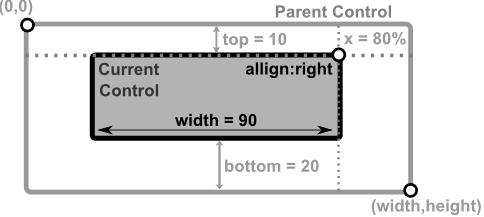
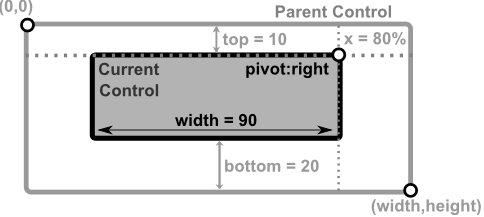
Partial documentation for anchors

Changed region(s): [[0.4959, 0.2765, 0.6818, 0.3594]]

diff --git a/docs/chapter-3/layout/anchors.md b/docs/chapter-3/layout/anchors.md
@@ -7,9 +7,9 @@ Anchors (`left`, `right`, `top` and `bottom`) represent the distance between the
 ## Corner anchors
 
 
-Corner anchors are cases when the following combinations of anchors are used toghether (`left` and `top`), (`left` and `bottom`), (`right` and `top`) and (`right` and `bottom`).
-When this combinations are used, `x` and `y` keys can not be used. Using them will reject the layout.
-If **width** or **height** are not specified , they will be defaulted to `1 character` (unless there is a minimum width or minumum height specified for that controls - in which case that limit will be applied).
+Corner anchors are cases when the following combinations of anchors are used together (`left` and `top`), (`left` and `bottom`), (`right` and `top`) and (`right` and `bottom`).
+When these combinations are used, `x` and `y` keys cannot be used. Using them will reject the layout.
+If **width** or **height** are not specified, they will be defaulted to `1 character` (unless there is a minimum width or minimum height specified for those controls - in which case that limit will be applied).
 
 The combination of anchors also decides how (top,left) and (right,bottom) corners of a control are computed, as follows:
 
@@ -22,48 +22,142 @@ The combination of anchors also decides how (top,left) and (right,bottom) corner
 
 where:
 * `parentWidth` is the width of the parent control
-* `parentHeight` the height of the parent control
+* `parentHeight` is the height of the parent control
 
-**Examples**
+### Visual Representation
 
-| Layout                     | Result                                 |
-| -------------------------- | -------------------------------------- |
-| **t:10,r:20,w:50,h:20**    | <img src="img/layout_anchor_tr.png" /> |
-| **b:10,r:20,w:33%,h:10**   | <img src="img/layout_anchor_br.png" /> |
-| **b:10%,l:50%,w:25%,h:10** | <img src="img/layout_anchor_bl.png" /> |
+| Layout Description                                                                                                                                                                                   | Visual representation                            |
+| ---------------------------------------------------------------------------------------------------------------------------------------------------------------------------------------------------- | ------------------------------------------------ |
+| A control anchored to **top** and **right** margins with `top` = **10**, `right` = **20**, `width` = **50** characters and `height` = **20** characters                                              | <img src="img/layout_anchor_tr.png" width=800 /> |
+| A control anchored to **bottom** and **right** margins with `bottom` = **10**, `right` = **20**, `width` = **33%** of parent width and `height` = **10** characters                                  | <img src="img/layout_anchor_br.png" width=800 /> |
+| A control anchored to **bottom** and **left** margins with `bottom` = **10%** of parent height, `left` = **50%** of parent width, `width` = **25%** of parent width and `height` = **10** characters | <img src="img/layout_anchor_bl.png" width=800 /> |
+
+### Examples
+
+1. Anchor control to top and right with fixed dimensions
+    ```rs
+    // using LayoutBuilder
+    LayoutBuilder::new().top(10)
+                        .right(20)
+                        .width(50)
+                        .height(20)
+                        .build()
+    // or using macro:
+    layout!("top:10,right:20,width:50,height:20")
+    // or using macro with aliases:
+    layout!("t:10,r:20,w:50,h:20")
+    ```
+
+2. Anchor control to bottom and right with percentage width
+    ```rs
+    // using LayoutBuilder
+    LayoutBuilder::new().bottom(10)
+                        .right(20)
+                        .width(0.33)
+                        .height(10)
+                        .build()
+    // or using macro:
+    layout!("bottom:10,right:20,width:33%,height:10")
+    // or using macro with aliases:
+    layout!("b:10,r:20,w:33%,h:10")
+    ```
 
 
 ## Using Left-Right anchors
 
-When `Left` and `right` anchors are used together, there are several restrictions. First of all, `width`  and `x` parameters can not be specified. Width is deduced as the difference between parents width and the sum of left and right anchors. Left anchor will also be considered as the "x" coordonate.
-However, `height` parameter should be specified (if not specified it will be defaulted to `1 character` (unless a minimum height is specified for that controls - in which case that limit will be applied).
-`align` paramter can also be specified , but only with the following values: `top`, `center` or `bottom`. If not specified it will be defaulted to `center`.
+When `left` and `right` anchors are used together, there are several restrictions. First of all, `width` and `x` parameters cannot be specified. Width is deduced as the difference between parent's width and the sum of left and right anchors. Left anchor will also be considered as the "x" coordinate.
+However, `height` parameter should be specified (if not specified it will be defaulted to `1 character` (unless a minimum height is specified for those controls - in which case that limit will be applied)).
+`align` parameter can also be specified, but only with the following values: `top`, `center` or `bottom`. If not specified it will be defaulted to `center`.
 
-**Examples**
+### Visual Representation
 
-| Layout                         | Result                                   |
-| ------------------------------ | ---------------------------------------- |
-| **l:10,r:20,h:20,y:80%,p:b**   | <img src="img/layout_anchor_lr_1.png" /> |
-| **l:10,r:20,h:100%,y:50%,p:c** | <img src="img/layout_anchor_lr_2.png" /> |
-| **l:10,r:20,h:50%,y:0,p:t**    | <img src="img/layout_anchor_lr_3.png" /> |
+| Layout Description                                                                                                                                         | Visual representation                              |
+| ---------------------------------------------------------------------------------------------------------------------------------------------------------- | -------------------------------------------------- |
+| A control with **left** and **right** anchors, positioned at `y` = **80%** of parent height with `height` = **20** characters and **bottom** pivot         | <img src="img/layout_anchor_lr_1.png" width=800 /> |
+| A control with **left** and **right** anchors, positioned at `y` = **50%** of parent height with `height` = **100%** of parent height and **center** pivot | <img src="img/layout_anchor_lr_2.png" width=800 /> |
+| A control with **left** and **right** anchors, positioned at `y` = **0** with `height` = **50%** of parent height and **top** pivot                        | <img src="img/layout_anchor_lr_3.png" width=800 /> |
+
+### Examples
+
+1. Left-Right anchors with bottom pivot positioning
+    ```rs
+    // using LayoutBuilder
+    LayoutBuilder::new().left(10)
+                        .right(20)
+                        .height(20)
+                        .y(0.8)
+                        .pivot(Pivot::Bottom)
+                        .build()
+    // or using macro:
+    layout!("left:10,right:20,height:20,y:80%,pivot:bottom")
+    // or using macro with aliases:
+    layout!("l:10,r:20,h:20,y:80%,p:b")
+    ```
+
+2. Left-Right anchors with center pivot and full height
+    ```rs
+    // using LayoutBuilder
+    LayoutBuilder::new().left(10)
+                        .right(20)
+                        .height(1.0)
+                        .y(0.5)
+                        .pivot(Pivot::Center)
+                        .build()
+    // or using macro:
+    layout!("left:10,right:20,height:100%,y:50%,pivot:center")
+    // or using macro with aliases:
+    layout!("l:10,r:20,h:100%,y:50%,p:c")
+    ```
 
 ## Using Top-Bottom anchors
 
-When `top` and `bottom` anchors are used together, there are several restrictions. First of all, `height` and `y` parameters can not be specified. Height is deduced as the difference between parents height and the sum of top and bottom anchors. Top anchor will also be considered as the "y" coordonate.
-However, `width` parameter should be specified (if not specified it will be defaulted to `1 character` (unless a minimum width is specified for that controls - in which case that limit will be applied).
-`align` paramter can also be specified , but only with the following values: `left`, `center` or `right`. If not specified it will be defaulted to `center`.
+When `top` and `bottom` anchors are used together, there are several restrictions. First of all, `height` and `y` parameters cannot be specified. Height is deduced as the difference between parent's height and the sum of top and bottom anchors. Top anchor will also be considered as the "y" coordinate.
+However, `width` parameter should be specified (if not specified it will be defaulted to `1 character` (unless a minimum width is specified for those controls - in which case that limit will be applied)).
+`align` parameter can also be specified, but only with the following values: `left`, `center` or `right`. If not specified it will be defaulted to `center`.
 
-**Examples**
+### Visual Representation
 
-| Layout                         | Result                                   |
-| ------------------------------ | ---------------------------------------- |
-| **t:10,b:20,w:90,x:80%,p:r**   | <img src="img/layout_anchor_tb_1.png" /> |
-| **t:10,b:20,w:100%,x:50%,p:c** | <img src="img/layout_anchor_tb_2.png" /> |
-| **t:10,b:20,w:50%,x:0,p:l**    | <img src="img/layout_anchor_tb_3.png" /> |
+| Layout Description                                                                                                                                      | Visual representation                              |
+| ------------------------------------------------------------------------------------------------------------------------------------------------------- | -------------------------------------------------- |
+| A control with **top** and **bottom** anchors, positioned at `x` = **80%** of parent width with `width` = **90** characters and **right** pivot         | <img src="img/layout_anchor_tb_1.png" width=800 /> |
+| A control with **top** and **bottom** anchors, positioned at `x` = **50%** of parent width with `width` = **100%** of parent width and **center** pivot | <img src="img/layout_anchor_tb_2.png" width=800 /> |
+| A control with **top** and **bottom** anchors, positioned at `x` = **0** with `width` = **50%** of parent width and **left** pivot                      | <img src="img/layout_anchor_tb_3.png" width=800 /> |
+
+### Examples
+
+1. Top-Bottom anchors with right pivot positioning
+    ```rs
+    // using LayoutBuilder
+    LayoutBuilder::new().top(10)
+                        .bottom(20)
+                        .width(90)
+                        .x(0.8)
+                        .pivot(Pivot::Right)
+                        .build()
+    // or using macro:
+    layout!("top:10,bottom:20,width:90,x:80%,pivot:right")
+    // or using macro with aliases:
+    layout!("t:10,b:20,w:90,x:80%,p:r")
+    ```
+
+2. Top-Bottom anchors with center pivot and full width
+    ```rs
+    // using LayoutBuilder
+    LayoutBuilder::new().top(10)
+                        .bottom(20)
+                        .width(1.0)
+                        .x(0.5)
+                        .pivot(Pivot::Center)
+                        .build()
+    // or using macro:
+    layout!("top:10,bottom:20,width:100%,x:50%,pivot:center")
+    // or using macro with aliases:
+    layout!("t:10,b:20,w:100%,x:50%,p:c")
+    ```
 
 ## 3-margin anchors
 
-When using 3 of the 4 anchors, the following keys can not be used: `x`, `y`, `align` and `dock`. Using them will reject the layout.
+When using 3 of the 4 anchors, the following keys cannot be used: `x`, `y`, `align` and `dock`. Using them will reject the layout.
 The following table reflects these dependencies:
 
 
@@ -73,9 +167,9 @@ The following table reflects these dependencies:
 | `top` and `left` and `bottom`<br>or<br>`top` and `right` and `bottom` | `width` optional (see remarks)<br><br>`height` = parentHeight - (top+bottom) |
 
 **Remarks** 
-* if `height` or `width` are not present and can not be computed as a difference between two margins, they are defaulted to value 1. If limits are present (min Width or min Height) those limits are applied. This is usually usefull for controls that have a fixed width or height (e.g. a button, a combobox).
+* if `height` or `width` are not present and cannot be computed as a difference between two margins, they are defaulted to value 1. If limits are present (min Width or min Height) those limits are applied. This is usually useful for controls that have a fixed width or height (e.g. a button, a combobox).
 
-The position of the control is also computed based on the combination of the 3 anchors selectd, as shown in the next table:
+The position of the control is also computed based on the combination of the 3 anchors selected, as shown in the next table:
 
 | Combination                     | Top-Left corner                    | Bottom-Right corner                      |
 | ------------------------------- | ---------------------------------- | ---------------------------------------- |
@@ -86,25 +180,70 @@ The position of the control is also computed based on the combination of the 3 a
 
 where:
 * `parentWidth` is the width of the parent control
-* `parentHeight` the height of the parent control
+* `parentHeight` is the height of the parent control
 
-**Examples**
+### Visual Representation
 
+| Layout Description                                                                                                                                                                | Visual representation                             |
+| --------------------------------------------------------------------------------------------------------------------------------------------------------------------------------- | ------------------------------------------------- |
+| A control anchored to **left**, **top**, and **right** margins with `left` = **10**, `top` = **8**, `right` = **20**, and `height` = **33%** of parent height                     | <img src="img/layout_anchor_ltr.png" width=800 /> |
+| A control anchored to **left**, **bottom**, and **right** margins with `left` = **20**, `bottom` = **5**, `right` = **10**, and `height` = **33%** of parent height               | <img src="img/layout_anchor_lbr.png" width=800 /> |
+| A control anchored to **top**, **left**, and **bottom** margins with `top` = **8**, `left` = **10**, `bottom` = **15**, and `width` = **80%** of parent width                     | <img src="img/layout_anchor_tlb.png" width=800 /> |
+| A control anchored to **top**, **right**, and **bottom** margins with `top` = **8**, `right` = **30**, `bottom` = **20%** of parent height, and `width` = **50%** of parent width | <img src="img/layout_anchor_trb.png" width=800 /> |
 
-| Layout                    | Result                                  |
-| ------------------------- | --------------------------------------- |
-| **l:10,t:8,r:20,h:33%**   | <img src="img/layout_anchor_ltr.png" /> |
-| **l:20,b:5,r:10,h:33%**   | <img src="img/layout_anchor_lbr.png" /> |
-| **l:10,t:8,b:15,w:80%**   | <img src="img/layout_anchor_tlb.png" /> |
-| **r:30,t:8,b:20%,w:50%%** | <img src="img/layout_anchor_trb.png" /> |
+### Examples
+
+1. Three-margin anchors with left, top, and right
+    ```rs
+    // using LayoutBuilder
+    LayoutBuilder::new().left(10)
+                        .top(8)
+                        .right(20)
+                        .height(0.33)
+                        .build()
+    // or using macro:
+    layout!("left:10,top:8,right:20,height:33%")
+    // or using macro with aliases:
+    layout!("l:10,t:8,r:20,h:33%")
+    ```
+
+2. Three-margin anchors with top, left, and bottom
+    ```rs
+    // using LayoutBuilder
+    LayoutBuilder::new().top(8)
+                        .left(10)
+                        .bottom(15)
+                        .width(0.8)
+                        .build()
+    // or using macro:
+    layout!("top:8,left:10,bottom:15,width:80%")
+    // or using macro with aliases:
+    layout!("t:8,l:10,b:15,w:80%")
+    ```
 
 
 ## 4-margin anchors
 
-When all of the 4 anchors, the rest of the keys ( `x`, `y`, `width`, `height`, `align`, `pivot` and `dock`) can not be used. Using them will reject the layout.
+When all of the 4 anchors are used, the rest of the keys (`x`, `y`, `width`, `height`, `align`, `pivot` and `dock`) cannot be used. Using them will reject the layout.
 
 **Example**
 
-| Layout                 | Result                                   |
-| ---------------------- | ---------------------------------------- |
-| **l:20,t:7,r:10,b:10** | <img src="img/layout_anchor_tlbr.png" /> |
+| Layout Description                                                                                                  | Visual representation                              |
+| ------------------------------------------------------------------------------------------------------------------- | -------------------------------------------------- |
+| A control anchored to all four margins with `left` = **20**, `top` = **7**, `right` = **10**, and `bottom` = **10** | <img src="img/layout_anchor_tlbr.png" width=800 /> |
+
+### Examples
+
+1. Four-margin anchors with all sides constrained
+    ```rs
+    // using LayoutBuilder
+    LayoutBuilder::new().left(20)
+                        .top(7)
+                        .right(10)
+                        .bottom(10)
+                        .build()
+    // or using macro:
+    layout!("left:20,top:7,right:10,bottom:10")
+    // or using macro with aliases:
+    layout!("l:20,t:7,r:10,b:10")
+    ```
